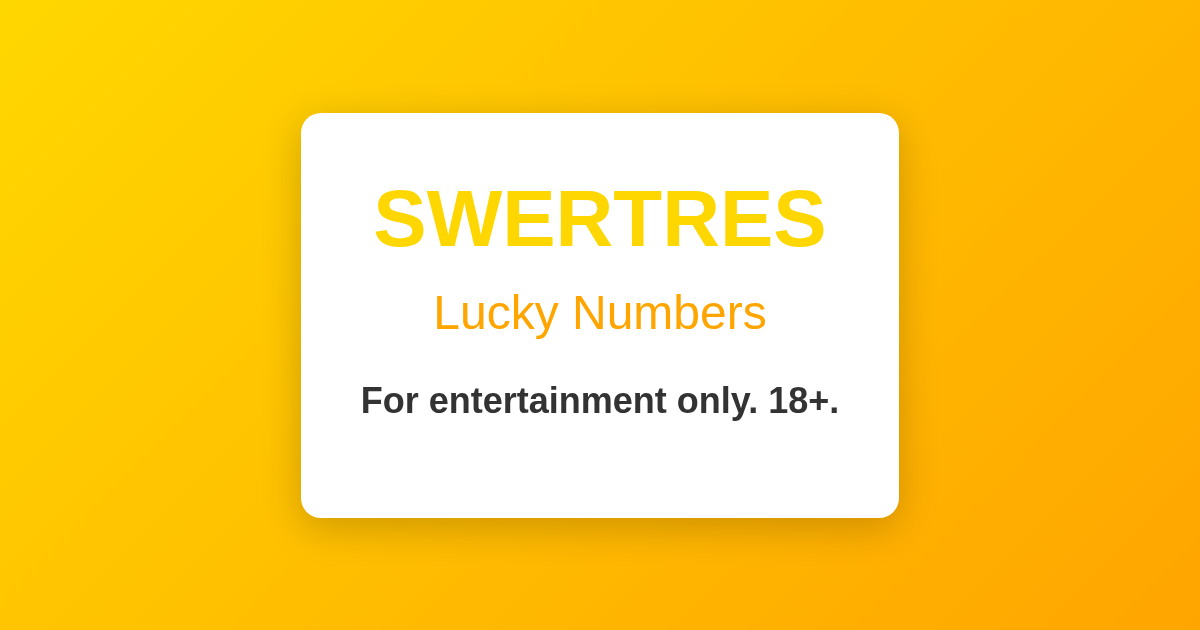
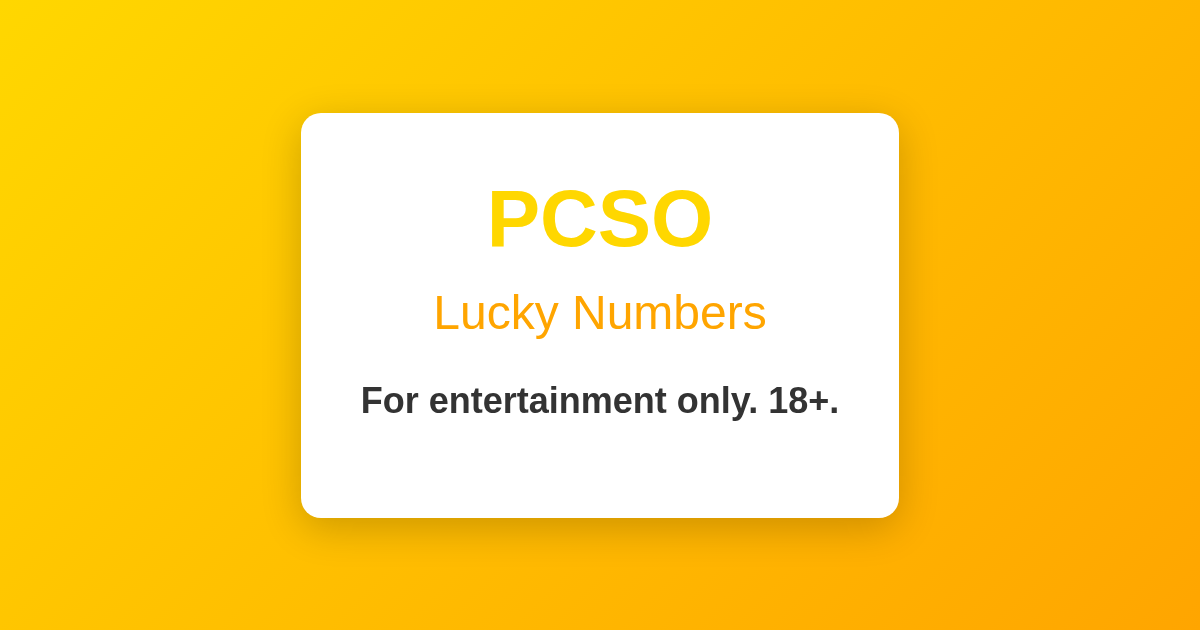
task 10: rename site to PCSO Lucky Numbers

Changed region(s): [[0.3083, 0.3016, 0.7092, 0.3921]]

diff --git a/index.html b/index.html
@@ -5,25 +5,25 @@
   <!-- https://xon-g.github.io/devteam-pilot/ -->
   <meta charset="UTF-8">
   <meta name="viewport" content="width=device-width, initial-scale=1.0">
-  <title>Swertres Lucky Numbers</title>
-  <meta name="description" content="Swertres Lucky Numbers - Tatlong random na numero, 0-9. Random digits para sa iyong swerte. For entertainment only. 18+.">
+  <title>PCSO Lucky Numbers</title>
+  <meta name="description" content="PCSO Lucky Numbers - random na numero para sa Swertres, EZ2, 4D, 6D at Lotto 6/42 hanggang Ultra Lotto 6/58. For entertainment only. 18+.">
   <link rel="canonical" href="https://xon-g.github.io/devteam-pilot/">
   <meta name="robots" content="index,follow">
   <!-- Open Graph / Facebook -->
   <meta property="og:type" content="website">
-  <meta property="og:site_name" content="Swertres Lucky Numbers">
-  <meta property="og:title" content="Swertres Lucky Numbers">
-  <meta property="og:description" content="Tatlong random na numero, 0-9. Random digits para sa iyong swerte. For entertainment only. 18+.">
+  <meta property="og:site_name" content="PCSO Lucky Numbers">
+  <meta property="og:title" content="PCSO Lucky Numbers">
+  <meta property="og:description" content="PCSO Lucky Numbers - random na numero para sa Swertres, EZ2, 4D, 6D at Lotto 6/42 hanggang Ultra Lotto 6/58. For entertainment only. 18+.">
   <meta property="og:url" content="https://xon-g.github.io/devteam-pilot/">
   <meta property="og:image" content="https://xon-g.github.io/devteam-pilot/assets/og-image.png">
   <meta property="og:image:width" content="1200">
   <meta property="og:image:height" content="630">
-  <meta property="og:image:alt" content="Swertres Lucky Numbers - Tatlong random na numero, 0-9">
+  <meta property="og:image:alt" content="PCSO Lucky Numbers - random na numero para sa PCSO games">
   <meta property="og:locale" content="fil_PH">
   <!-- Twitter -->
   <meta name="twitter:card" content="summary_large_image">
-  <meta name="twitter:title" content="Swertres Lucky Numbers">
-  <meta name="twitter:description" content="Tatlong random na numero, 0-9. Random digits para sa iyong swerte. For entertainment only. 18+.">
+  <meta name="twitter:title" content="PCSO Lucky Numbers">
+  <meta name="twitter:description" content="PCSO Lucky Numbers - random na numero para sa Swertres, EZ2, 4D, 6D at Lotto 6/42 hanggang Ultra Lotto 6/58. For entertainment only. 18+.">
   <meta name="twitter:image" content="https://xon-g.github.io/devteam-pilot/assets/og-image.png">
   <meta name="theme-color" content="#12061f">
   <link rel="manifest" href="manifest.webmanifest">
@@ -33,8 +33,8 @@
 <body>
   <header id="header">
     <p class="eyebrow">Swertres · 3D</p>
-    <h1 class="title">Swertres <span>Lucky</span> Numbers</h1>
-    <p class="tagline">Tatlong numero, isang tapik. Good vibes lang.</p>
+    <h1 class="title">PCSO <span>Lucky</span> Numbers</h1>
+    <p class="tagline">Pili ng laro, isang tapik. Good vibes lang.</p>
   </header>
 
   <main id="main">
@@ -110,6 +110,7 @@
       <button id="share" disabled>I-share</button>
     </div>
     <p id="share-status" aria-live="polite"></p>
+    <p id="not-affiliated" class="fine-print">Hindi ito official na PCSO site. Not affiliated with PCSO.</p>
   </main>
 
   <aside id="ad-slot" class="ad-slot" hidden aria-label="Advertisement"></aside>

diff --git a/test/rename.test.js b/test/rename.test.js
@@ -1,0 +1,39 @@
+import { test } from 'node:test';
+import assert from 'node:assert';
+import fs from 'node:fs';
+import { fileURLToPath } from 'node:url';
+
+const read = (f) => fs.readFileSync(new URL(`../${f}`, import.meta.url), 'utf8');
+const html = read('index.html');
+const meta = (attr, key) =>
+  html.match(new RegExp(`<meta[^>]+${attr}=["']${key}["'][^>]+content=["']([^"']*)["']`, 'i'))?.[1];
+
+test('site is named PCSO Lucky Numbers', () => {
+  const name = 'PCSO Lucky Numbers';
+  assert.strictEqual(html.match(/<title>([^<]*)<\/title>/)[1], name);
+  assert.strictEqual(meta('property', 'og:title'), name);
+  assert.strictEqual(meta('property', 'og:site_name'), name);
+  assert.strictEqual(meta('name', 'twitter:title'), name);
+  const h1 = html.match(/<h1[^>]*>([\s\S]*?)<\/h1>/)[1].replace(/<[^>]+>/g, '').trim();
+  assert.strictEqual(h1, name);
+});
+
+test('no leftover old name or 3-digit-only copy', () => {
+  assert.ok(!html.includes('Swertres Lucky Numbers'));
+  assert.ok(!/Tatlong numero|Tatlong random/.test(html));
+});
+
+test('#not-affiliated note', () => {
+  const m = html.match(/<p id="not-affiliated"[^>]*>([^<]*)<\/p>/);
+  assert.ok(m, '#not-affiliated exists');
+  assert.ok(m[1].includes('Not affiliated with PCSO'));
+});
+
+test('manifest and og-image', () => {
+  const manifest = JSON.parse(read('manifest.webmanifest'));
+  assert.strictEqual(manifest.name, 'PCSO Lucky Numbers');
+  assert.strictEqual(manifest.short_name, 'PCSO Lucky');
+  const png = fs.readFileSync(fileURLToPath(new URL('../assets/og-image.png', import.meta.url)));
+  assert.strictEqual(png.readUInt32BE(16), 1200);
+  assert.strictEqual(png.readUInt32BE(20), 630);
+});

diff --git a/test/games.browser.test.js b/test/games.browser.test.js
@@ -152,7 +152,21 @@ test('game picker', { timeout: 120000 }, async () => {
     assert.strictEqual(await page.locator('#combo-output.prompt').count(), 1);
     assert.strictEqual(await page.locator('#share').isDisabled(), true);
     assert.strictEqual(await page.locator('#mode-group').isVisible(), true);
-    await page.screenshot({ path: '.smoke/swertres-360x740.png', fullPage: true });
+    await page.screenshot({ path: '.smoke/swertres-360x740.png', fullPage: false });
+
+    // rename: title, not-affiliated note clear of the footer, no sideways scroll
+    assert.strictEqual(await page.evaluate(() => document.title), 'PCSO Lucky Numbers');
+    await page.locator('#not-affiliated').scrollIntoViewIfNeeded();
+    assert.strictEqual(await page.locator('#not-affiliated').isVisible(), true);
+    const boxes = await page.evaluate(() => {
+      const r = (s) => { const b = document.querySelector(s).getBoundingClientRect(); return { top: b.top, bottom: b.bottom }; };
+      return { note: r('#not-affiliated'), foot: r('footer#disclaimer'),
+        scrollW: document.documentElement.scrollWidth, clientW: document.documentElement.clientWidth };
+    });
+    assert.ok(boxes.note.bottom <= boxes.foot.top, 'note does not overlap footer');
+    assert.ok(boxes.scrollW <= boxes.clientW, 'no sideways scroll');
+    await page.evaluate(() => window.scrollTo(0, 0));
+    await page.screenshot({ path: '.smoke/swertres-360x740.png', fullPage: false });
 
     // switch game during an animated draw
     await page.click('#draw');

diff --git a/test/pwa.test.js b/test/pwa.test.js
@@ -28,8 +28,8 @@ test('manifest.webmanifest exists and is valid JSON', () => {
   const content = fs.readFileSync(manifestPath, 'utf8');
   const manifest = JSON.parse(content);
   
-  assert.strictEqual(manifest.name, 'Swertres Lucky Numbers', 'name should be "Swertres Lucky Numbers"');
-  assert.strictEqual(manifest.short_name, 'Swertres', 'short_name should be "Swertres"');
+  assert.strictEqual(manifest.name, 'PCSO Lucky Numbers', 'name should be "PCSO Lucky Numbers"');
+  assert.strictEqual(manifest.short_name, 'PCSO Lucky', 'short_name should be "PCSO Lucky"');
   assert.strictEqual(manifest.start_url, './', 'start_url should be "./"');
   assert.strictEqual(manifest.scope, './', 'scope should be "./"');
   assert.strictEqual(manifest.display, 'standalone', 'display should be "standalone"');

diff --git a/test/seo.test.js b/test/seo.test.js
@@ -218,11 +218,11 @@ test('OG image exists and has correct dimensions', () => {
   assert.strictEqual(dims.height, 630, 'og-image.png height should be 630');
 });
 
-test('sw.js precaches og-image.png and CACHE is swertres-v5', () => {
+test('sw.js precaches og-image.png and CACHE is swertres-v6', () => {
   const swJs = fs.readFileSync(path.join(rootDir, 'sw.js'), 'utf8');
   
   // Check CACHE version
-  assert.ok(swJs.includes('const CACHE = "swertres-v5"'), 'CACHE should be swertres-v5');
+  assert.ok(swJs.includes('const CACHE = "swertres-v6"'), 'CACHE should be swertres-v6');
   
   // Check og-image.png in ASSETS
   assert.ok(swJs.includes('"assets/og-image.png"'), 'sw.js should precache og-image.png');

diff --git a/scripts/make-og-image.js b/scripts/make-og-image.js
@@ -17,7 +17,7 @@ const ogHtml = `<!DOCTYPE html>
 <head>
   <meta charset="UTF-8">
   <meta name="viewport" content="width=device-width, initial-scale=1.0">
-  <title>Swertres Lucky Numbers</title>
+  <title>PCSO Lucky Numbers</title>
   <style>
     body {
       margin: 0;
@@ -55,7 +55,7 @@ const ogHtml = `<!DOCTYPE html>
 </head>
 <body>
   <div class="card">
-    <h1>Swertres</h1>
+    <h1>PCSO</h1>
     <p style="font-size: 48px; color: #FFA500; margin: 20px 0;">Lucky Numbers</p>
     <p class="disclaimer">For entertainment only. 18+.</p>
   </div>

diff --git a/styles.css b/styles.css
@@ -444,3 +444,11 @@ footer#disclaimer {
 .segmented[hidden] {
   display: none;
 }
+
+/* Not-affiliated note (last child of main; clear of the fixed footer) */
+.fine-print {
+  margin: 1.5rem 0 0;
+  color: var(--muted);
+  font-size: 0.75rem;
+  text-align: center;
+}

diff --git a/sw.js b/sw.js
@@ -1,4 +1,4 @@
-const CACHE = "swertres-v5";
+const CACHE = "swertres-v6";
 
 const ASSETS = [
   "./",
